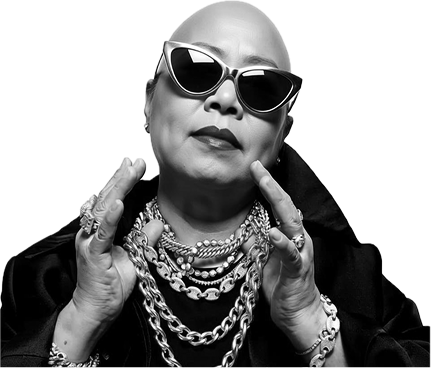
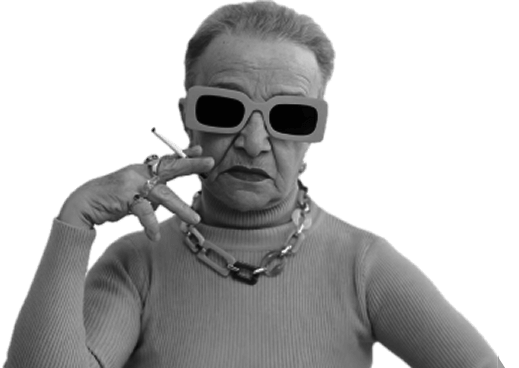
add new images.

diff --git a/src/views/btc-list/banner.tsx b/src/views/btc-list/banner.tsx
@@ -21,27 +21,29 @@ export default function Banner() {
           <span>· Verifiable Probability</span>
         </div>
       </div>
-      <div className="absolute left-[16px] bottom-[0px] button group">
+      <div className="absolute left-[16px] bottom-[0px] cursor-pointer group">
         <div className="absolute left-0 bottom-0 w-[340px] h-[240px] bg-[url('/home/banner-bidder-gray.png')] bg-cover bg-center opacity-100 group-hover:opacity-0 transition-opacity duration-300"></div>
-        <div className="absolute left-[-40px] bottom-0 w-[416px] h-[341px] bg-[url('/home/banner-bidder.png')] bg-cover bg-center opacity-0 group-hover:opacity-100 transition-opacity duration-300"></div>
+        <div className="absolute left-[-40px] bottom-0 z-[2] w-[373px] h-[260px] bg-[url('/home/banner-bidder.png')] bg-cover bg-center opacity-0 group-hover:opacity-100 transition-opacity duration-300"></div>
+        <div className="absolute left-[-60px] bottom-[160px] z-[1] w-[209px] h-[169px] bg-[url('/home/banner-bidder-text.png')] bg-cover bg-center opacity-0 group-hover:opacity-100 translate-y-[50px] group-hover:translate-y-0 transition-transform duration-300"></div>
         <div
           onClick={() => {
             navigate("/btc/detail");
           }}
-          className="absolute left-[102px] bottom-[16px] w-[152px] h-[40px] bg-linear-to-b from-[#37EFA8] to-[#5BF5BA] flex items-center justify-center rounded-[12px] text-[14px] text-[#2B3337] font-[600]"
+          className="absolute left-[102px] bottom-[16px] z-[3] w-[152px] h-[40px] bg-linear-to-b from-[#37EFA8] to-[#5BF5BA] flex items-center justify-center rounded-[12px] text-[14px] text-[#2B3337] font-[600] group-hover:animate-[pulse-scale_1s_ease-in-out_infinite]"
         >
           Bidder
           <div className="w-full h-full rounded-[12px] bg-black/30 absolute left-0 top-0 opacity-100 group-hover:opacity-0 transition-opacity duration-300" />
         </div>
       </div>
-      <div className="absolute right-[40px] bottom-[0px] button group">
-        <div className="absolute right-0 bottom-0 w-[287px] h-[245px] bg-[url('/home/banner-seller-gray.png')] bg-cover bg-center opacity-100 group-hover:opacity-0 transition-opacity duration-300"></div>
-        <div className="absolute right-[-110px] bottom-0 w-[438px] h-[327px] bg-[url('/home/banner-seller.png')] bg-cover bg-center opacity-0 group-hover:opacity-100 transition-opacity duration-300"></div>
+      <div className="absolute right-[40px] bottom-[0px] cursor-pointer group">
+        <div className="absolute right-[-10px] bottom-0 w-[346px] h-[248px] bg-[url('/home/banner-seller-gray.png')] bg-cover bg-center opacity-100 group-hover:opacity-0 transition-opacity duration-300"></div>
+        <div className="absolute right-[-10px] bottom-[-30px] z-[2] w-[358px] h-[306px] bg-[url('/home/banner-seller.png')] bg-cover bg-center opacity-0 group-hover:opacity-100 transition-opacity duration-300"></div>
+        <div className="absolute right-[-84px] bottom-[140px] z-[1] w-[214px] h-[188px] bg-[url('/home/banner-seller-text.png')] bg-cover bg-center opacity-0 group-hover:opacity-100 translate-y-[50px] group-hover:translate-y-0 transition-transform duration-300"></div>
         <div
           onClick={() => {
             navigate("/btc/create");
           }}
-          className="absolute right-[60px] bottom-[16px] w-[152px] h-[40px] bg-linear-to-b from-[#FFB700] to-[#FFCE54] flex items-center justify-center rounded-[12px] text-[14px] text-[#2B3337] font-[600]"
+          className="absolute right-[60px] bottom-[16px] z-[3] w-[152px] h-[40px] bg-linear-to-b from-[#FFB700] to-[#FFCE54] flex items-center justify-center rounded-[12px] text-[14px] text-[#2B3337] font-[600] group-hover:animate-[pulse-scale_1s_ease-in-out_infinite]"
         >
           Seller
           <div className="w-full h-full rounded-[12px] bg-black/30 absolute left-0 top-0 opacity-100 group-hover:opacity-0 transition-opacity duration-300" />

diff --git a/src/index.css b/src/index.css
@@ -166,6 +166,16 @@ div::-webkit-scrollbar-thumb:hover {
   }
 }
 
+@keyframes pulse-scale {
+  0%,
+  100% {
+    transform: scale(1);
+  }
+  50% {
+    transform: scale(1.1);
+  }
+}
+
 .table-container {
   width: 100%;
   max-height: 400px;
